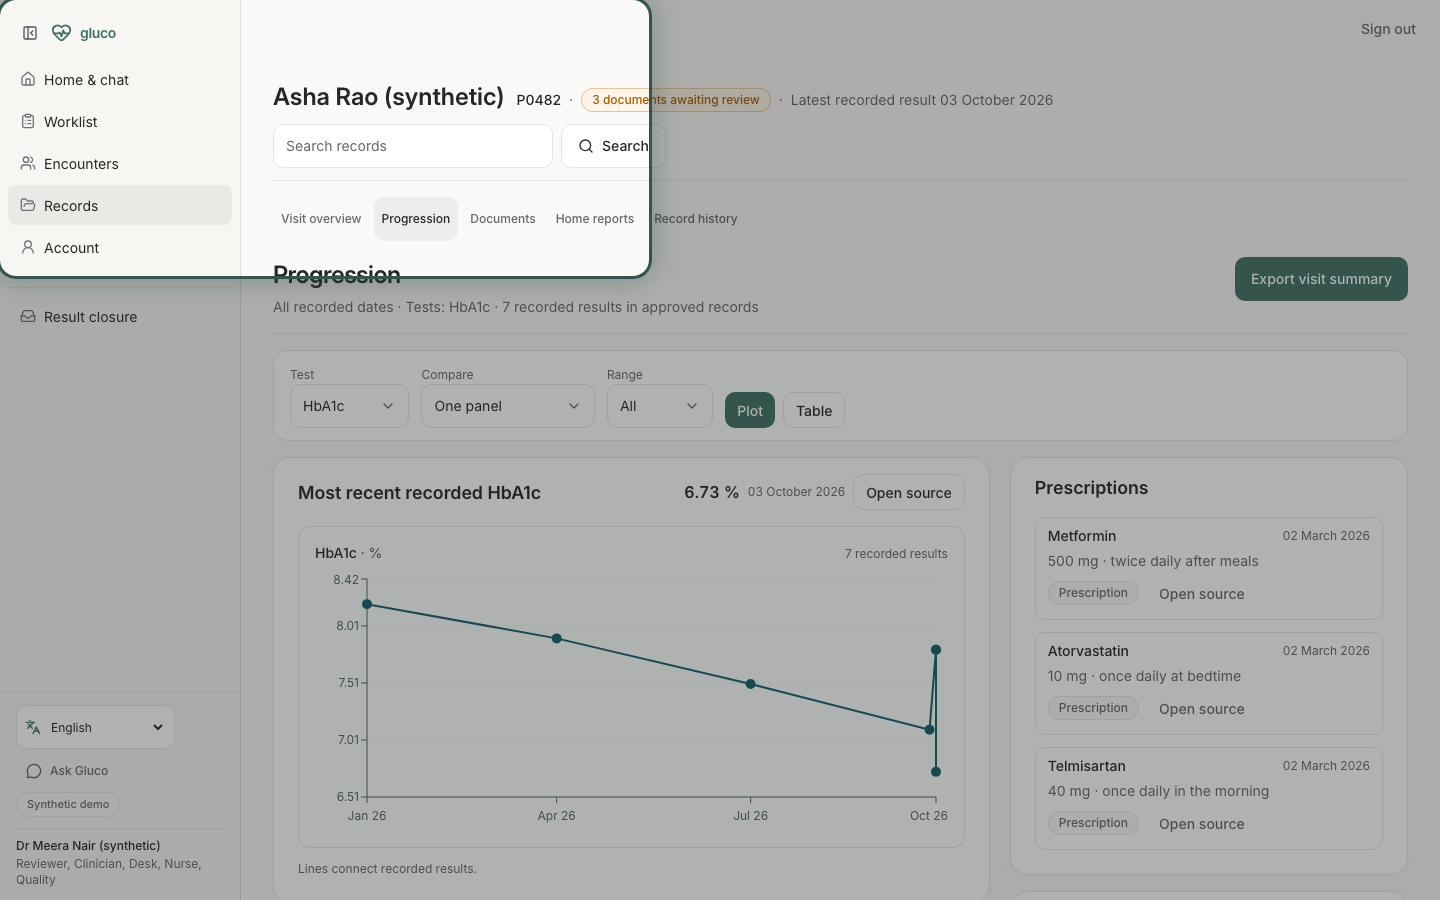
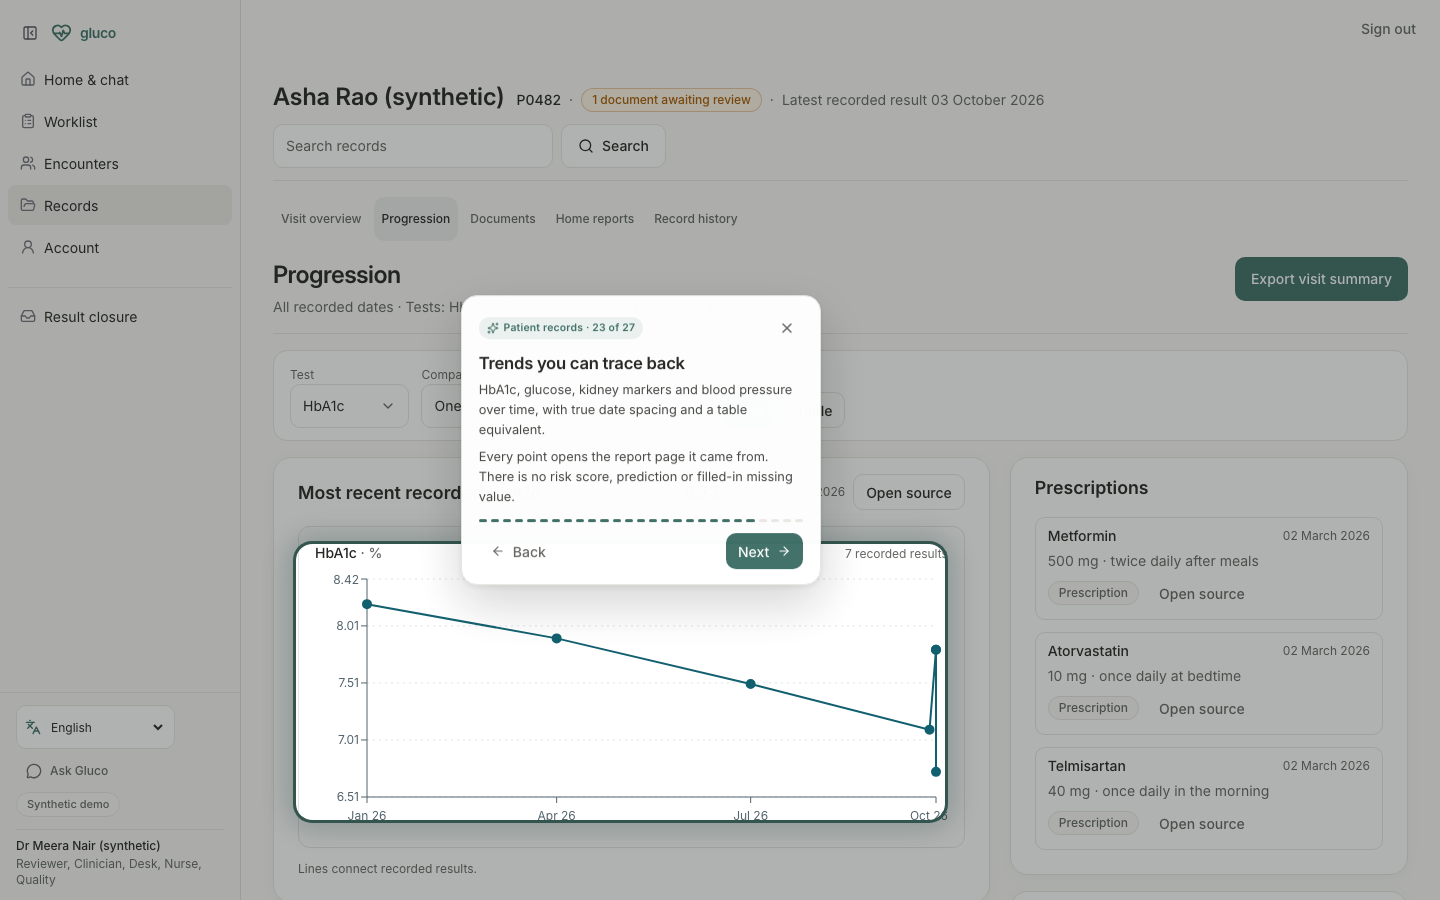
Record hosted demo data cleanup and refresh tour evidence

diff --git a/app/reports/evaluator-showcase-2026-11-14.md b/app/reports/evaluator-showcase-2026-11-14.md
@@ -93,3 +93,7 @@ Simulated feeds and fictional patients only. No new hospital, ABDM, model-accura
 - **Not done:**
   - Android APK not rebuilt. The Android SDK is no longer installed on this machine (`~/Library/Android/sdk` is missing), so the November 7 APK still bundles the earlier interface.
   - Hosted demo data was not cleaned. Earlier test uploads and notes remain visible in the review queue and the patient notes.
+
+## Hosted demo data cleanup (2026-11-15)
+
+With the user's confirmation, removed leftover test data for Asha Rao (synthetic) from the hosted database in a single transaction. The removed rows were 7 uploads with no approved facts (4 repeat `synthetic-lab.pdf`, 1 repeat photo pair and 2 `synthetic-hermes-proof` PDFs), the rows that depend on them, 7 finished jobs and 1 QA note. A guard refused deletion if any approved facts or approval batches existed. Kept: every document that has approved facts, one duplicate (to show duplicate detection), the quarantined wrong-patient PDF and the photo sample awaiting review. The backup is in the git-ignored `.local/` directory. Verified afterwards: the live review queue shows 12 rows, and the production tour and landing specs passed 10/10 (desktop and mobile).
